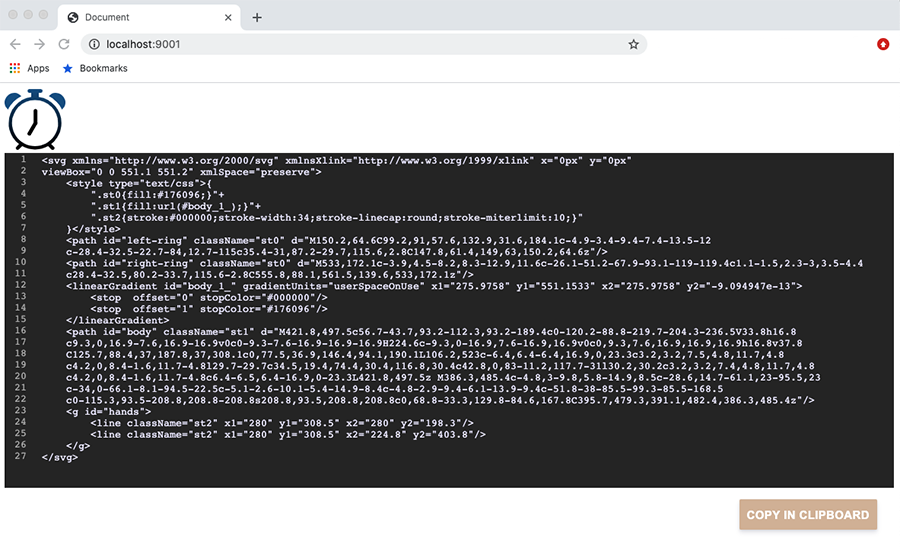
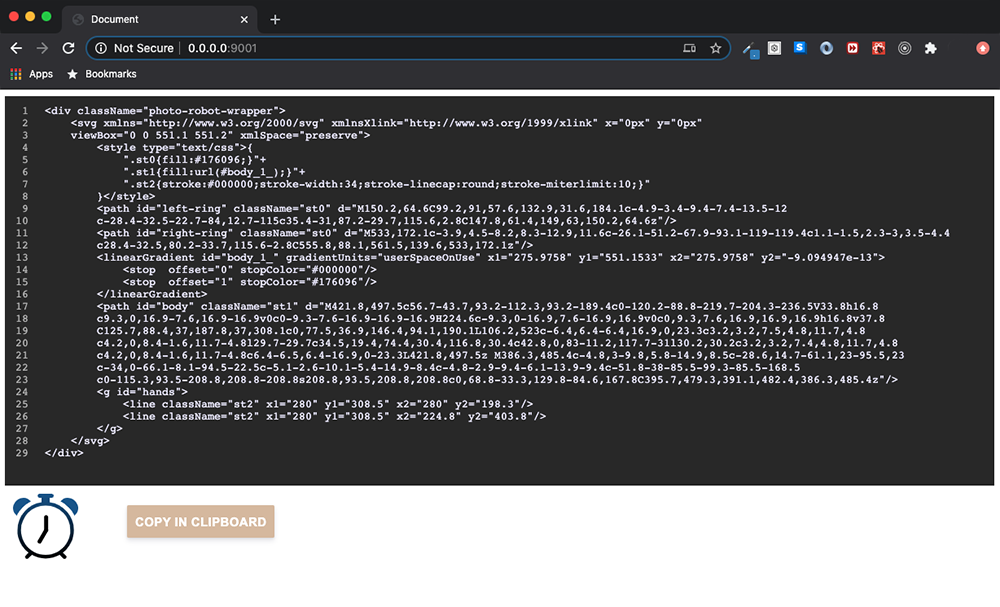
Fix Safari doesnt support lookbehinds

diff --git a/src/components/StringToJSX.js b/src/components/StringToJSX.js
@@ -14,12 +14,11 @@ let getColsWidth = nodeArray => {
 }
 
 let getNodes = str => {
-    // return new DOMParser().parseFromString(str, "text/html").body.childNodes
-
-    let stripedStyle = str.replace(/\}(?=<\/style)|"(?=\.\w)|("\+)$|{?$|(?<=\})"$/gm, '')
+    const stripedStyle = str.replace(/\}(?=<\/style)|"(?=\.\w)|("\+)$|\{?$/gmi, '');
+    const stripedLastQuote = stripedStyle.replace(/(.*;\})(")$/gm, '$1') // So stupid!
 
     return {
-        nodeArray: new DOMParser().parseFromString(stripedStyle, "application/xml").childNodes,
+        nodeArray: new DOMParser().parseFromString(stripedLastQuote, "application/xml").childNodes,
         string: str.split('\n')
     }
 }
@@ -27,60 +26,72 @@ let getNodes = str => {
 let createJSX = (nodeObj) => {
     let svgString = nodeObj.string
     let nodeArray = nodeObj.nodeArray
+
     return [
-        CreateSVG(nodeArray),
         React.createElement(
             'div',
             {
-                key: 'container',
+                key: 'wrapper',
                 style: {
                     display: 'flex',
-                    overflow: 'scroll',
-                    background: 'rgb(45 45 45)',
-                    width: 'auto',
-                    height: '100%',
-                    resize: 'none'
+                    flexDirection: 'column-reverse',
+                    position: 'relative',
                 }
             },
+            CreateSVG(nodeArray),
             React.createElement(
-                'textarea',
+                'div',
                 {
-                    rows: svgString.length,
-                    cols: 1,
-                    defaultValue: getColsWidth(svgString).lineNumber.join('\n'),
-                    style : {
-                        className: 'numbered',
-                        textAlign: 'right',
-                        minWidth: '1rem',
-                        padding: '10px 5px 0 5px',
-                        border: 'none',
+                    key: 'container',
+                    style: {
+                        display: 'flex',
+                        overflow: 'scroll',
                         background: 'rgb(45 45 45)',
-                        color: 'rgb(183 183 183)',
+                        width: 'auto',
+                        height: '100%',
                         resize: 'none'
                     }
-                }
-            ),
-            React.createElement(
-                'textarea',
-                {
-                    rows: svgString.length + 1,
-                    cols: getColsWidth(svgString).lineLength,
-                    defaultValue: svgString.join('\n'),
-                    style : {
-                        className: 'svg-code',
-                        flexShrink: '0',
-                        border: 'none',
-                        background: 'rgb(45 45 45)',
-                        color: 'rgb(237 236 255)',
-                        overflow: 'scroll',
-                        paddingLeft: '15px',
-                        paddingTop: '10px',
-                        resize: 'none',
+                },
+                React.createElement(
+                    'textarea',
+                    {
+                        rows: svgString.length,
+                        cols: 1,
+                        defaultValue: getColsWidth(svgString).lineNumber.join('\n'),
+                        style : {
+                            className: 'numbered',
+                            textAlign: 'right',
+                            minWidth: '1rem',
+                            padding: '10px 5px 0 5px',
+                            border: 'none',
+                            background: 'rgb(45 45 45)',
+                            color: 'rgb(183 183 183)',
+                            resize: 'none'
+                        }
                     }
-                }
-            )
-        ),
-        Button()
+                ),
+                React.createElement(
+                    'textarea',
+                    {
+                        rows: svgString.length + 1,
+                        cols: getColsWidth(svgString).lineLength,
+                        defaultValue: svgString.join('\n'),
+                        style : {
+                            className: 'svg-code',
+                            flexShrink: '0',
+                            border: 'none',
+                            background: 'rgb(45 45 45)',
+                            color: 'rgb(237 236 255)',
+                            overflow: 'scroll',
+                            paddingLeft: '15px',
+                            paddingTop: '10px',
+                            resize: 'none',
+                        }
+                    }
+                )
+            ),
+            Button()
+        )
     ]
      
 }

diff --git a/src/converter/format.js b/src/converter/format.js
@@ -65,16 +65,14 @@ class Format {
         for (let i = 0; i < length; i++) {
             let element = allArray[i]
             let beginnings = /<svg.+>|<style type="text\/css">|^<[^\/]+>$|^<[^\/].*[^>]$/gi.test(element); // <...> or <.....
-            let onelines = /<.*>.*<\/.*>|^<\w.*\/>$|^(?<!<)\w.+[^>]$|^\w.+\/?>$|^['"]?\..*/gi.test(element) //  <./>...<./> or <..../>  or .... or .../>  or ...> or '.photo-st0{fill:#061E2D;}'+
-            let endings = /(?<!.+)<\/.*>|^}?<\/style>$/gi.test(element) // </...> or }</style>
+            let onelines = /<.*>.*<\/.*>|^<\w.*\/>$|^\w.+[^>]$|^\w.+\/?>$|^['"]?\..*/gi.test(element) //  <./>...<./> or <..../>  or .... or .../>  or ...> or '.photo-st0{fill:#061E2D;}'+
+            let endings = /^<\/.*>|^}?<\/style>$/gi.test(element) // </...> or }</style>
 
             // Indents open elements <g> or <g className="someclass" not closing..
             if ( beginnings ) {
-                if ( (/^<[^\/]+>$|^\w.+[^\/]>$/gi.test(allArray[i-1])) ) {   // Tests previous element is the same, if so add space
-                    
+                if ( (/^<[^\/]+>$|^[^<]\w.+[^\/]>$/gi.test(allArray[i-1])) ) {   // Tests previous element is the same, if so add space
                     space += spaces;
                     newString += element.replace(/^/g, '\n'+' '.repeat(space))
-                    
                 } else 
                     newString += element.replace(/^/g, i===0?'':'\n'+' '.repeat(space)) // First line, only adds new line (\n) if it's not the first line
             }

diff --git a/src/converter/svgconverter.js b/src/converter/svgconverter.js
@@ -116,11 +116,11 @@ class Convert {
 				this.stringify_STYLE_ELEM()
 			}
 		}
-			
-		this.string = this.string.replace(/enable-background.+"/g, '')
+
+		this.string = this.string.replace(/enable-background.+"\s/g, '')
 		
 		if (hasColan) {
-			this.string = this.string.replace(isColan, '="')
+			this.string =  this.string.replace(/(.*\sstyle=".*)(:)(.*\/>)/gi, '$1="$3')
 		}
 		if (hasStyle) {
 			this.string = this.string.replace(isStyle, '')
@@ -143,12 +143,13 @@ class Convert {
 		if(hasIDorVersion) {
 			this.string = this.string.replace(isIDorVersion, '')
 		}
-
+		
 		/**
 		 * Format
 		 * See {@link Format}
 		 */
 		let formated = Format.indent(this.string, this.svgCSS)
+
 		return formated
 	}
 }

diff --git a/src/components/CreateSVG.js b/src/components/CreateSVG.js
@@ -21,7 +21,7 @@ let CreateSVG = (nodeArray) => {
                     attributeObj[attribute.name] = attribute.nodeValue;
 
                     // Adds inline style to svg 
-                    if(localName === 'svg') attributeObj.style = {width: '5rem', height: '5rem'}
+                    if(localName === 'svg') attributeObj.style = {width: '5rem', height: '5rem', margin: '10px'}
                 }
             });
         }

diff --git a/src/components/Button.js b/src/components/Button.js
@@ -14,9 +14,9 @@ let Button = () => {
             onClick: () => {copySVGstring()},
             style: {
                 position: 'absolute',
-                right: '15px',
+                left: '150px',
+                bottom: '40px',
                 height: '40px',
-                margin: '15px',
                 border: 'none',
                 padding: '0 10px',
                 borderRadius: '2px',

diff --git a/src/converter/constants.js b/src/converter/constants.js
@@ -1,6 +1,6 @@
 
-exports.stylePattern = /<style([\s\S]*)<\/style>/gi
-exports.isColan = /(?<=style=".+):/gi
+exports.stylePattern = /<style([\s\S]*)<\/style>/i
+exports.isColan = /(.*\sstyle=".*)(:)(.*\/>)/gi
 exports.isSemiColan = /;(?!\})/gi
 exports.isStyle = /style(=|:)"/gi
 exports.isColorPattern = /stop-color/gi
